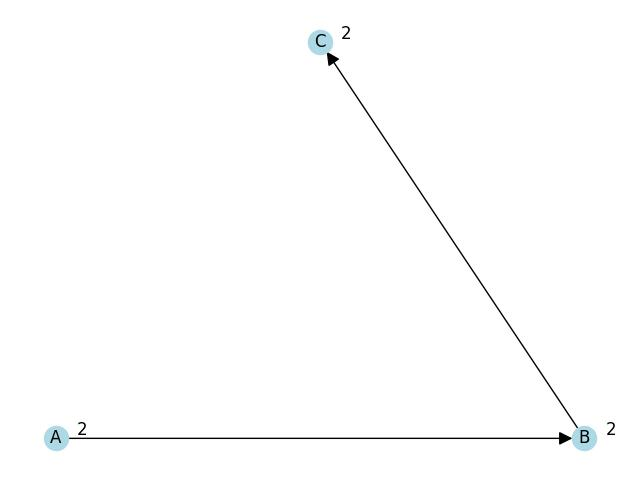
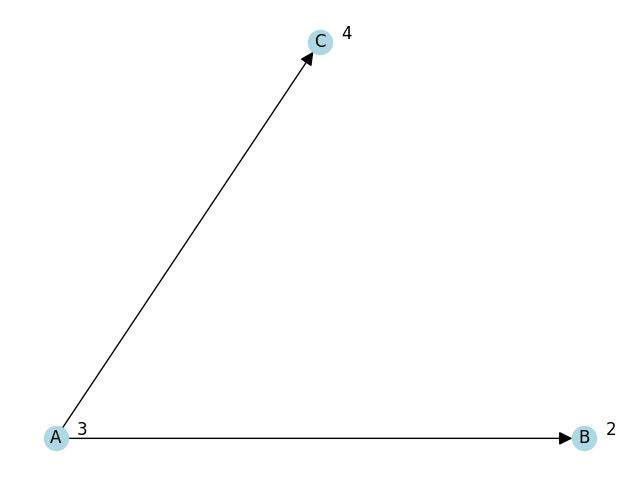
Used projid to identify tasks

diff --git a/app/templates/addtask.html b/app/templates/addtask.html
@@ -54,8 +54,9 @@
           </div>
 
         <!-- Submit button -->
-        <button type="submit" class="btn btn-primary btn-block mb-4">ADD TASKS</button>
-        <button type="submit" class="btn btn-primary btn-block mb-4">ADD SUCCESSORS</button>
+        <button type="submit" class="btn btn-primary btn-block mb-4" name="addtasks" value="addtasks">ADD TASKS</button>
+        <button type="submit" class="btn btn-primary btn-block mb-4" name="addsucc" value="addsucc">ADD SUCCESSORS</button>
+        <button type="submit" class="btn btn-primary btn-block mb-4" name="delete" value="delete">DELETE</button>
       </form>
 
     </div>

diff --git a/app/templates/list_edges.html b/app/templates/list_edges.html
@@ -26,14 +26,13 @@
         <tbody>
             {% for edge in edges %}
             <tr>
-                <td>{{ edge.nodeid }}</td>
-                <td>{{ edge.edgename }}</td>
+                <td>{{ edge.nodeid1 }}</td>
+                <td>{{ edge.nodeid2 }}</td>
             </tr>
             {% endfor %}
         </tbody>
     </table>
     <br><br>
-    <!-- <a href="{{ url_for('addNode') }}">Add New Employee</a> -->
 </body>
 
 </html>

diff --git a/app/templates/add_edges.html b/app/templates/add_edges.html
@@ -32,7 +32,6 @@
         <input type="submit" value="Submit" />
     </form>
     <br><br>
-    <!-- <a href="{{ url_for('addNode') }}">Add New Employee</a> -->
 </body>
 
 </html>

diff --git a/app/routes.py b/app/routes.py
@@ -61,8 +61,8 @@ def details():
       proj=Projects(request.form['projname'],request.form['projdescr'],current_user.id)
       db.session.add(proj)
       db.session.commit()
-      clear_table()
-      return redirect(url_for('addNode'))
+      # clear_table()
+      return redirect(url_for('addtsk',proj_id=proj.id))
    return render_template('profile.html',name=current_user.username)
 
 # @app.route('/calculate')
@@ -71,63 +71,78 @@ def details():
 #    flash('SUCCESS') 
 #    return render_template('success.html')
 
-@app.route('/addtask', methods = ['GET', 'POST'])
-def addtsk():
+# @app.route('/listprojects')
+# def listprojects():
+#    projects=Projects.query.all()
+#    for project in projects:
+#       print(project.proj_name,project.proj_descr,project.user_id)
+
+@app.route('/addtask/<proj_id>', methods = ['GET', 'POST'])
+def addtsk(proj_id):
    if request.method == 'POST':  
-      node = Nodes(request.form['taskid'],request.form['taskdur'],request.form['taskdesc'])
-      try:
-         db.session.add(node)
-         db.session.commit()
-         return redirect('/addtask')
-      except:
-         return "Error adding to database"
+      if request.form.get('addtasks')=='addtasks':
+         node = Nodes(request.form['taskid'],request.form['taskdur'],request.form['taskdesc'],proj_id)
+         try:
+            db.session.add(node)
+            db.session.commit()
+            return redirect(url_for('addtsk',proj_id=proj_id))
+         except:
+            return "Error adding to database"
+      elif request.form.get('delete')=='delete':
+         return redirect('/delete',proj_id=proj_id)
+      else:
+         return redirect(url_for('addEdge',proj_id=proj_id))
    else:      
-      return render_template('addtask.html',nodes = Nodes.query.all())
+      return render_template('addtask.html',nodes = Nodes.query.filter_by(proj_id=proj_id).all())
 
 
-@app.route('/addedge',methods=['GET','POST'])
-def addEdge():
+@app.route('/addedge/<proj_id>',methods=['GET','POST'])
+def addEdge(proj_id):
    if request.method=='POST':
       node_is=request.form['edge']
       edges_are=request.form.getlist("edge_keys")
-      node_id=Nodes.query.with_entities(Nodes.id).filter_by(nodename=node_is).first()
+      node_id1=Nodes.query.with_entities(Nodes.id).filter_by(nodename=node_is,proj_id=proj_id).first()
       for e in edges_are:
-        edge=Edges(e,node_id[0])
+        node_id2=Nodes.query.with_entities(Nodes.id).filter_by(nodename=e).first()
+        edge=Edges(node_id2[0],node_id1[0])
         db.session.add(edge)
         db.session.commit()
 
       flash("Edges added successfully")
       return redirect(url_for('list_edges'))
    print("NOT POST")
-   return render_template('add_edges.html',nodes=Nodes.query.all())
+   return render_template('add_edges.html',nodes=Nodes.query.filter_by(proj_id=proj_id).all())
 
 @app.route('/listedges')
 def list_edges():
    return render_template('list_edges.html',edges=Edges.query.all())
 
-@app.route('/delete',methods=['GET','POST'])
-def del_node():
+@app.route('/delete/<proj_id>',methods=['GET','POST'])
+def del_node(proj_id):
    if request.method=='POST':
       if not request.form['node_name']:
         flash('Please enter the name to delete','error')
       else:
-         node_id=Nodes.query.with_entities(Nodes.id).filter_by(nodename=request.form['node_name']).first()  
-         end_nodes=Edges.query.filter_by(edgename=request.form['node_name']).all() #delete the edges with end edge is node
-         for n in end_nodes:
-            db.session.delete(n)
+         node_id=Nodes.query.with_entities(Nodes.id).filter_by(nodename=request.form['node_name'],proj_id=proj_id).first() 
+
+         if node_id is not None: 
+            end_nodes=Edges.query.filter_by(nodeid2=node_id[0]).all() #delete the edges with end edge is node
+            for n in end_nodes:
+               db.session.delete(n)
          
          print("NODE_ID",node_id)
 
          if node_id is not None:
-            start_nodes=Edges.query.filter_by(nodeid=node_id[0]).all() #delete the edges with start edge is node
+            start_nodes=Edges.query.filter_by(nodeid1=node_id[0]).all() #delete the edges with start edge is node
             for n in start_nodes:
                db.session.delete(n)
+
          node=Nodes.query.filter_by(nodename=request.form['node_name']).first() #deleted the node from Nodes
          if node is not None:
             db.session.delete(node)
          db.session.commit()
          flash("Record was successfully deleted")
-         return redirect(url_for('list_nodes'))
+         return redirect(url_for('addtsk',proj_id=proj_id))
    return render_template('delete_node.html')
 
 @app.route('/deleteedge',methods=['GET','POST'])
@@ -136,8 +151,9 @@ def del_edge():
       if not request.form['start_node']:
         flash('Please enter the node1 to delete','error') 
       else:
-         node_id=Nodes.query.with_entities(Nodes.id).filter_by(nodename=request.form['start_node']).first() 
-         edge_id=Edges.query.filter_by(nodeid=node_id[0],edgename=request.form['end_node']).first()
+         node_id1=Nodes.query.with_entities(Nodes.id).filter_by(nodename=request.form['start_node']).first()
+         node_id2=Nodes.query.with_entities(Nodes.id).filter_by(nodename=request.form['end_node']).first() 
+         edge_id=Edges.query.filter_by(nodeid1=node_id1[0],nodeid2=node_id2[0]).first()
          db.session.delete(edge_id)
          db.session.commit()
          flash("Record deleted successfully")
@@ -151,27 +167,33 @@ def logout():
     user = current_user
     user.authenticated = False
     logout_user()
-    return redirect(url_for('home.html'))
+    return redirect(url_for('signin'))
 
 tasks=[]
 dependencies=[]
 crit_path=[]
 result=[]
 
-def get_nodes(result):
-   nodes=Nodes.query.all()
+def get_nodes(result,proj_id):
+   nodes=Nodes.query.filter_by(proj_id=proj_id).all()
    for node in nodes:
       add_nodes(tasks,node.nodename,node.duration)
-   edges=Edges.query.all()
-   for edge in edges:
-      node1=Nodes.query.with_entities(Nodes.nodename).filter_by(id=edge.nodeid).first()
-      add_edges(dependencies,node1[0],edge.edgename)
+      edges=Edges.query.filter_by(nodeid1=node.id).all()
+      for edge in edges:
+         node2=Nodes.query.with_entities(Nodes.nodename).filter_by(id=edge.nodeid2).first()
+         add_edges(dependencies,node.nodename,node2[0])
+   # edges=Edges.query.all()
+   # for edge in edges:
+   #    node1=Nodes.query.with_entities(Nodes.nodename).filter_by(id=edge.nodeid).first()
+   #    add_edges(dependencies,node1[0],edge.edgename)
+
    result=critical_path(crit_path,dependencies,tasks)
    return result
+
 res=[]
-@app.route('/calculate')
-def cpm():
-   res=get_nodes(result)
+@app.route('/calculate/<proj_id>')
+def cpm(proj_id):
+   res=get_nodes(result,proj_id)
    flash('SUCCESS') 
    print(res[0],res[1])
    return render_template('success.html',result=res)

diff --git a/app/database.py b/app/database.py
@@ -1,27 +1,6 @@
 from app import db
 from flask_login import UserMixin
 
-class Nodes(db.Model):  
-   id = db.Column('id', db.Integer, primary_key = True)  
-   nodename = db.Column(db.String(10))  
-   task_descr=db.Column(db.String(20))
-   duration = db.Column(db.Integer)
-  
-   def __init__(self, nodename, duration,task_descr):  
-      self.nodename = nodename  
-      self.duration = duration  
-      self.task_descr=task_descr
-      
-class Edges(db.Model):
-   id = db.Column(db.Integer, primary_key=True)
-   edgename=db.Column(db.String(10)) #endnode
-   nodeid=db.Column(db.Integer, db.ForeignKey(Nodes.id)) #startnode
-   # nodes = relationship(Nodes, cascade = "all,delete", backref = "edges")
-
-   def __init__(self,edgename,nodeid):
-      self.edgename=edgename
-      self.nodeid=nodeid
-
 class User(UserMixin,db.Model):
    id=db.Column(db.Integer,primary_key=True)
    username=db.Column(db.String(20))
@@ -43,3 +22,29 @@ class Projects(db.Model):
       self.proj_name=proj_name
       self.proj_descr=proj_descr
       self.user_id=user_id
+
+class Nodes(db.Model):  
+   id = db.Column('id', db.Integer, primary_key = True)  
+   nodename = db.Column(db.String(10))  
+   task_descr=db.Column(db.String(20))
+   duration = db.Column(db.Integer)
+   proj_id=db.Column(db.Integer, db.ForeignKey(Projects.id))
+  
+   def __init__(self, nodename, duration,task_descr,proj_id):  
+      self.nodename = nodename  
+      self.duration = duration  
+      self.task_descr=task_descr
+      self.proj_id=proj_id
+      
+class Edges(db.Model):
+   id = db.Column(db.Integer, primary_key=True)
+   # edgename=db.Column(db.String(10)) 
+   nodeid2=db.Column(db.Integer, db.ForeignKey(Nodes.id))#endnode
+   nodeid1=db.Column(db.Integer, db.ForeignKey(Nodes.id)) #startnode
+   # nodes = relationship(Nodes, cascade = "all,delete", backref = "edges")
+
+   def __init__(self,nodeid2,nodeid1):
+      self.nodeid2=nodeid2
+      self.nodeid1=nodeid1
+
+
